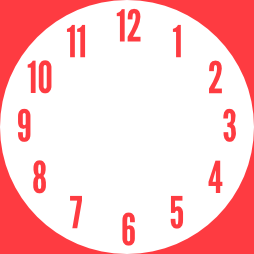
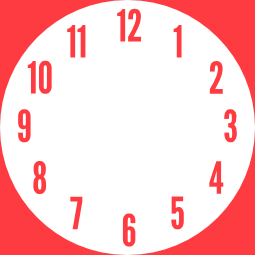
changing sizes

diff --git a/Social Alarm version with 3GS size Clock.html b/Social Alarm version with 3GS size Clock.html
@@ -47,11 +47,11 @@
         
     #sec, #min, #hour {
     position: absolute;
-    width: 70px;
+    width: 32px;
     height: 480px;
     background-repeat: no-repeat;
     top: 0px;
-    left: 285px;
+    left: 160px;
     }
         
     /* #sec {
@@ -60,13 +60,13 @@
     } */
            
     #min {
-    background: url(https://raw.github.com/kgmodi/smart-alarm/master/CSS3Clock/images/minhand3.png);
+    background: url(https://raw.github.com/kgmodi/smart-alarm/master/CSS3Clock/images/minhand3GS.png);
     background-repeat: no-repeat;
     z-index: 2;
     }
            
     #hour {
-    background: url(https://raw.github.com/kgmodi/smart-alarm/master/CSS3Clock/images/hourhand2.png);
+    background: url(https://raw.github.com/kgmodi/smart-alarm/master/CSS3Clock/images/hourhand3GS.png);
     z-index: 3;
     }
 
